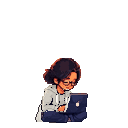
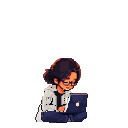
Open the lab coat over his tee, with lapels and a pen
The coat now reads as a lab coat rather than a pale hoodie: brighter
off-white, open down the zip line over the dark tee with a V and soft
lapel folds at the collar, and a breast pocket with a blue pen. The
opening is anchored per state and follows the body only where its
drawstring shows, holding still otherwise, so no detail flickers between
frames; the stretch's arms-up frames, where he faces us, are pinned to
the middle of his chest. Every changed pixel is still hoodie or
drawstring: face and hair untouched.

Changed region(s): [[0.4062, 0.6875, 0.5, 0.875], [0.3438, 0.75, 0.4062, 0.7812]]

diff --git a/art/scripts/outfits.py b/art/scripts/outfits.py
@@ -198,6 +198,76 @@ def recolour(frame, region, palette, lo, hi):
     return out
 
 
+# Where the lab coat's front opens, per state: the drawstring's usual column and top row in that
+# state's frames (the hoodie's zip line). Each frame follows the string when it is visible near
+# here and otherwise keeps the previous frame's place, so the coat's details never jump or flicker.
+COAT_FRONT = {
+    "asad-typing": (56, 96), "asad-idle": (55, 96), "asad-coffee": (57, 96),
+    "asad-happy": (53, 95), "asad-look": (57, 96), "asad-stretch": (64, 95),
+}
+# Frames where the body turns enough that the opening moves: the stretch's arms-up frames face us,
+# so the zip line is in the middle of the chest there.
+COAT_FRONT_FRAMES = {"asad-stretch": {2: (53, 92), 3: (53, 92), 4: (53, 92), 5: (53, 92)}}
+
+
+def coat_anchors(state, frames, regions):
+    base_x, base_y = COAT_FRONT[state]
+    out, prev = [], (base_x, base_y)
+    for i, (frame, region) in enumerate(zip(frames, regions)):
+        if i in COAT_FRONT_FRAMES.get(state, {}):
+            prev = COAT_FRONT_FRAMES[state][i]
+            out.append(prev)
+            continue
+        _, strings = hoodie_pixels(frame, region)
+        ys, xs = np.nonzero(strings)
+        near = [(x, y) for x, y in zip(xs, ys) if abs(x - base_x) <= 3]
+        if near:
+            x = min(x for x, _ in near)
+            prev = (x, min(y for xx, y in near if xx == x))
+        out.append(prev)
+    return out
+
+
+def coat_front(frame, coat, anchor, palette):
+    """An open lab coat over the dark tee: a strip of tee down the zip line that widens into a V at
+    the collar, soft grey lapel folds beside it, and a breast pocket with a pen. Only pixels that are
+    coat change, so hands, laptop, mug, face and hair stay."""
+    out = frame.copy()
+    a, top = anchor
+    tee = hexrgb(palette.get("tee", "#17121e"))
+    fold = hexrgb(palette.get("fold", "#8d8780"))
+    stitch = hexrgb(palette.get("stitch", "#a39d95"))
+    pen, cap = hexrgb(palette.get("pen", "#3f5a9c")), hexrgb(palette.get("penCap", "#d9dde6"))
+
+    def put(x, y, c):
+        if 0 <= x < 128 and 0 <= y < 128 and coat[y, x]:
+            out[y, x, :3] = c
+
+    # the V at the collar, narrowing to the strip
+    for k, y in enumerate(range(top - 5, top)):
+        for x in range(a - 3 + k // 2, a + 7 - k // 2):
+            put(x, y, tee)
+        put(a - 4 + k // 2, y, fold)
+        put(a + 7 - k // 2, y, fold)
+    # the open front down to the waist, with a fold line along each side
+    for y in range(top, top + 14):
+        for x in range(a, a + 4):
+            put(x, y, tee)
+        put(a - 1, y, fold)
+        put(a + 4, y, fold)
+    # breast pocket on the chest, a pen clipped in it
+    px, py = a - 11, top + 1
+    for x in range(px, px + 5):
+        put(x, py, stitch)
+    for y in range(py, py + 4):
+        put(px, y, stitch)
+        put(px + 4, y, stitch)
+    put(px + 2, py - 1, cap)
+    put(px + 2, py, pen)
+    put(px + 2, py + 1, pen)
+    return out
+
+
 def coat_tail(frame, palette):
     """The lab coat's tail, spread on the floor behind him: from his waist down his back's left edge
     it widens to about 7px at the floor. Drawn only on transparent pixels, so it sits behind him."""
@@ -255,11 +325,18 @@ def build():
             src = SPRITES / f"{state}.png"
             if meta.get("palette"):
                 sheet = np.array(Image.open(src).convert("RGBA"))
-                for i in range(sheet.shape[1] // 128):
+                n = sheet.shape[1] // 128
+                source = [sheet[:, i * 128 : (i + 1) * 128].copy() for i in range(n)]
+                regions = [region_mask(state, i) for i in range(n)]
+                anchors = coat_anchors(state, source, regions) if meta.get("coat") else None
+                for i in range(n):
                     sl = slice(i * 128, (i + 1) * 128)
-                    sheet[:, sl] = recolour(sheet[:, sl], region_mask(state, i), meta["palette"], lo, hi)
+                    sheet[:, sl] = recolour(source[i], regions[i], meta["palette"], lo, hi)
                     if meta.get("coat"):
-                        sheet[:, sl] = coat_tail(sheet[:, sl], meta["palette"])
+                        hood, strings = hoodie_pixels(source[i], regions[i])
+                        coat = sheet[:, sl].copy()
+                        coat = coat_front(coat, hood | strings, anchors[i], meta["palette"])
+                        sheet[:, sl] = coat_tail(coat, meta["palette"])
                 Image.fromarray(sheet).save(folder / f"{state}.png", optimize=True)
             else:
                 shutil.copyfile(src, folder / f"{state}.png")

diff --git a/art/README.md b/art/README.md
@@ -74,8 +74,12 @@ for those frames, traced beside the hair, never over it. The hoodie's brightness
 on the original four states only, so a new state never shifts existing outfits.
 
 `labcoat/` is the Steins Gate lab coat: `"hidden": true` keeps it out of `index.json` (so the admin
-wardrobe and the API never offer it), and `"coat": true` adds the coat's tail, spread on the floor
-behind him (`coat_tail`, drawn only on transparent pixels, so it sits behind him). The room swaps it in
+wardrobe and the API never offer it), and `"coat": true` turns the hoodie into an open lab coat:
+`coat_front` opens it over the dark tee along the zip line, with lapel folds and a breast pocket
+holding a pen, and `coat_tail` spreads its tail on the floor behind him (drawn only on transparent
+pixels). The opening is placed from `COAT_FRONT` (each state's usual drawstring column), follows the
+string where a frame shows it and holds its place where not, so nothing flickers; `COAT_FRONT_FRAMES`
+pins frames where the body turns (the stretch's arms-up frames face us). The room swaps it in
 while the Steins Gate worldline lasts; the saved outfit never changes.
 
 To add one: make `site/public/art/outfits/<id>/outfit.json` (copy `forest/`; `palette.hoodie` is five
